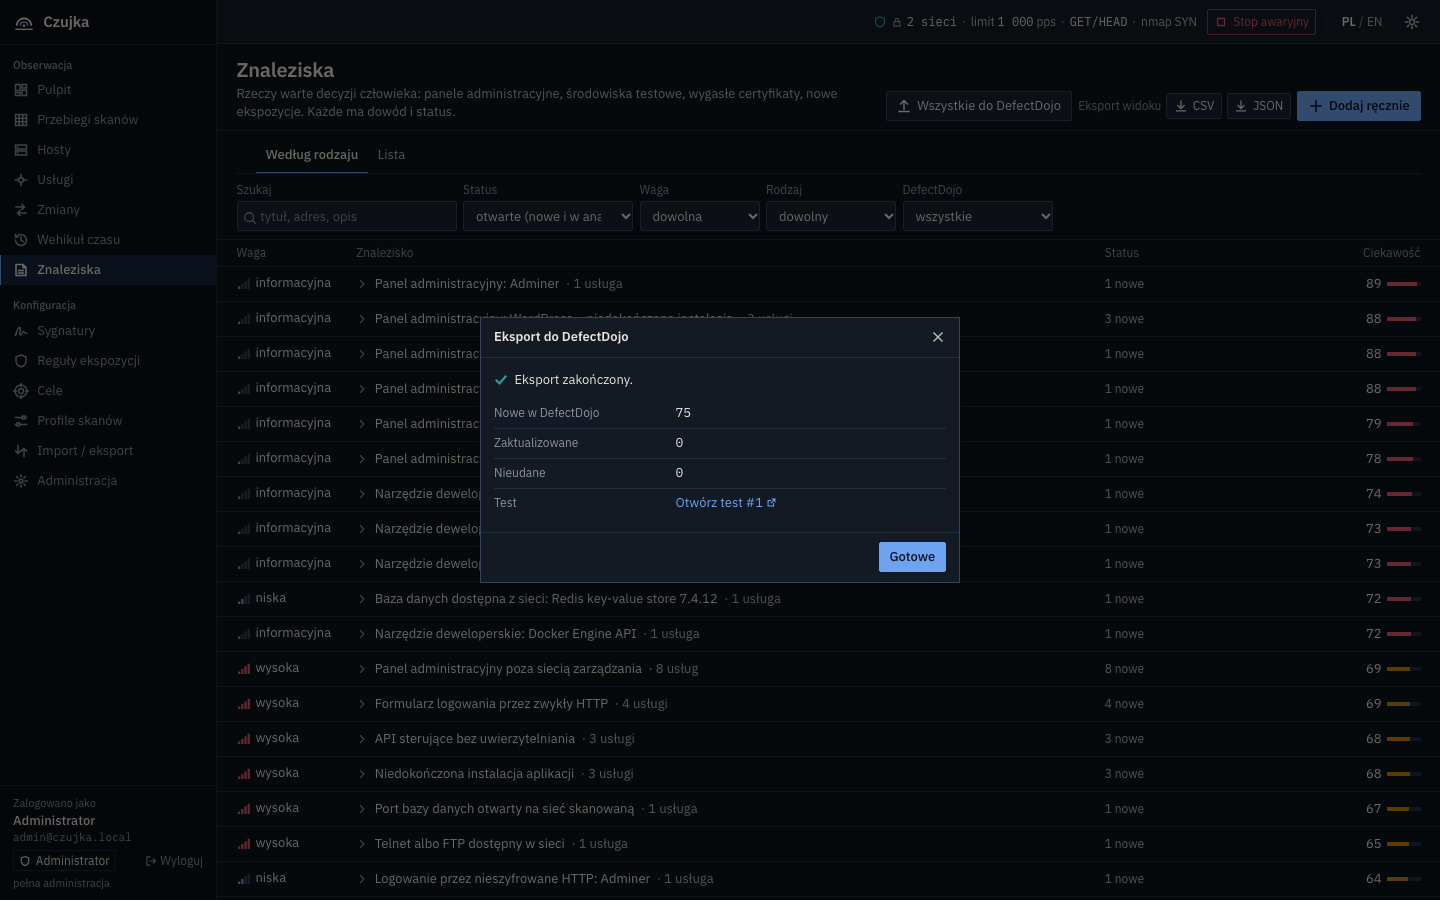
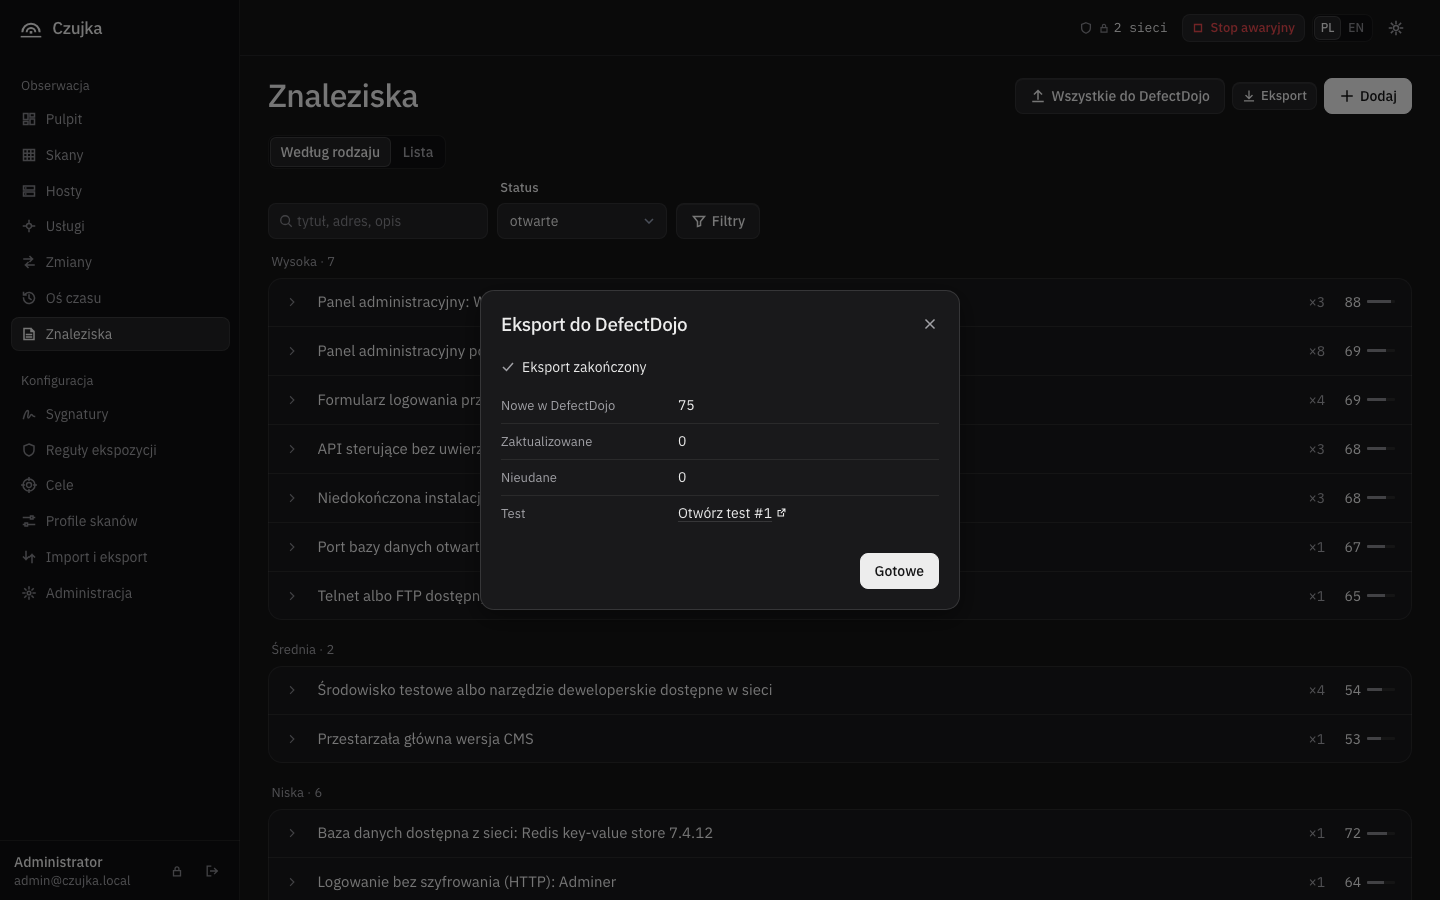
docs(demo): live cue card and case 4 and 6 proofs on the frozen UI
Navigation labels (Skany, Import i eksport), the export result without a period, the retro-hunt sentence without the packet count, the sign-out icon. Cases 4 and 6 were proven again on the merged build; the time machine scene points at the scrubber.

diff --git a/docs/demo/LIVE.md b/docs/demo/LIVE.md
@@ -17,7 +17,7 @@ Login: `admin@czujka.local`. Czasy zmierzono na MacBooku pod obciążeniem. Dowo
 
 - Przygotuj: `live.sh 1`, gotowe po ok. 2 min 10 s.
 - Na żywo: `live.sh 1 change`.
-- Klik: Przebiegi skanów → Uruchom skan → „Ten komputer: Domyślny…” → Uruchom → po ok. 100 s Zmiany.
+- Klik: Skany → Uruchom skan → „Ten komputer: Domyślny…” → Uruchom → po ok. 100 s Zmiany.
 - UI: „Usługa 172.18.0.1:8787 zniknęła (nginx 1.31.9)”.
 - Dalej: `live.sh 1 up`, ten sam skan (ok. 110 s). UI: „Usługa 172.18.0.1:8787 wróciła po 1 min (nie było jej w 1 skanie)”.
 - Powiedz: „Czujka porównuje każdy skan z poprzednim i sama mówi, co zniknęło, a co wróciło.”
@@ -27,7 +27,7 @@ Login: `admin@czujka.local`. Czasy zmierzono na MacBooku pod obciążeniem. Dowo
 
 - Przygotuj: `live.sh 2`, gotowe po 40 s.
 - Na żywo: `live.sh 2 stop`.
-- Klik: Przebiegi skanów → Uruchom skan → „Serwer w pracowni: port 80” → Uruchom → po 7 s Zmiany.
+- Klik: Skany → Uruchom skan → „Serwer w pracowni: port 80” → Uruchom → po 7 s Zmiany.
 - UI od razu: „Host 172.31.250.10 nie odpowiada (niepotwierdzone)”.
 - UI ok. 1,5 min później, bez kliknięcia: „Host 172.31.250.10 zgłoszony jako nieaktywny”, „Usługa 172.31.250.10:80 zniknęła (nginx 1.31.9): host zgłoszony jako nieaktywny”.
 - Powiedz: „Jeden brak odpowiedzi to jeszcze nie awaria. Czujka sama sprawdza ponownie i dopiero wtedy potwierdza.”
@@ -37,43 +37,43 @@ Login: `admin@czujka.local`. Czasy zmierzono na MacBooku pod obciążeniem. Dowo
 
 - Przygotuj: `live.sh 3`, gotowe po 75 s.
 - Na żywo: `live.sh 3 slow` (Toxiproxy +500 ms).
-- Klik: Przebiegi skanów → Uruchom skan → „WordPress za proxy” → Uruchom → po ok. 20 s Zmiany.
+- Klik: Skany → Uruchom skan → „WordPress za proxy” → Uruchom → po ok. 20 s Zmiany.
 - UI: „Usługa 172.18.0.1:8085 odpowiada wolniej: 585 ms (zwykle 39 ms)”.
 - Dalej, jeśli jest czas: `live.sh 3 fast`, ten sam skan. UI: „znów odpowiada w zwykłym czasie: 44 ms (zwykle 39 ms)”.
 - Powiedz: „Czujka zna zwykły czas odpowiedzi każdej usługi, więc widzi spowolnienie, zanim usługa padnie.”
 
 ## 4. Nowa ekspozycja, reguły i DefectDojo
 
-- Przygotuj: `live.sh 4`, gotowe po 60 s.
+- Przygotuj: `live.sh 4`, gotowe po ok. 75 s.
 - Na żywo: `live.sh 4 expose` (stos podatny obok czystego).
-- Klik: Przebiegi skanów → Uruchom skan → „Porty szablonu” → Uruchom → po ok. 90 s Zmiany → Reguły ekspozycji.
+- Klik: Skany → Uruchom skan → „Porty szablonu” → Uruchom → po ok. 90 s Zmiany → Reguły ekspozycji.
 - UI: 19 × „Nowa usługa…”, np. „Nowa usługa 172.18.0.1:8088 (Apache httpd 2.4.10)”. Reguły: „Niedokończona instalacja aplikacji” 3, „API sterujące bez uwierzytelniania” 3.
 - DefectDojo: w drugim terminalu, w trakcie skanu: `live.sh 4 dojo` (ok. 65 s).
-- Klik: Znaleziska → Wszystkie do DefectDojo → Eksportuj.
-- UI: „Eksport zakończony.” Nowe w DefectDojo: 75, nieudane: 0.
+- Klik: Znaleziska → Wszystkie do DefectDojo → Eksportuj 75.
+- UI: „Eksport zakończony”. Nowe w DefectDojo: 75, nieudane: 0.
 - Powiedz: „Nowa usługa od razu przechodzi przez reguły. To, czego nie powinno być w sieci, staje się znaleziskiem i jednym kliknięciem trafia do DefectDojo.”
 - Uwaga: link „Otwórz test” działa tylko w maszynie. Port 2375 (Docker Engine API) to demon samej maszyny jury.
 
 ## 5. Role
 
 - Przygotuj: `live.sh 5`, gotowe po 45 s. Terminal pokazuje raz 4 konta z hasłami: viewer@, analyst@, editor@czujka.local, admin2@czujka.local.
-- Klik: Wyloguj → viewer@ → Przebiegi skanów. UI: „Tylko odczyt. Twoja rola nie pozwala na zmiany na tej stronie.”
-- Klik: analyst@ → jest „Uruchom skan” i „Stop awaryjny” → Import / eksport. UI: „Twoja rola nie może importować wyników”.
-- Klik: editor@ → Import / eksport działa, sygnatury też → admin2@ → Administracja → Użytkownicy.
+- Klik: ikona Wyloguj (lewy dolny róg) → viewer@ → Skany. UI: „Tylko odczyt. Twoja rola nie pozwala na zmiany na tej stronie.”
+- Klik: analyst@ → jest „Uruchom skan” i „Stop awaryjny” → Import i eksport. UI: „Twoja rola nie może importować wyników.”
+- Klik: editor@ → Import i eksport działa, sygnatury też → admin2@ → Administracja → Użytkownicy.
 - Powiedz: „Cztery role z zadania. Przycisku, którego rola nie może użyć, nie widać albo jest wyłączony.”
 
 ## 6. Sygnatura z prawdziwej usługi
 
-- Przygotuj: `live.sh 6`, gotowe po ok. 2 min 10 s.
+- Przygotuj: `live.sh 6`, gotowe po ok. 1,5–2 min.
 - Klik: Usługi → 172.18.0.1:8888 (httpbin) → Zaproponuj sygnaturę → Otwórz w edytorze → Uruchom test → Zapisz sygnaturę.
-- UI: „Sygnatura „gunicorn” pasuje do przykładu i do żadnej innej z 6 zapisanych usług.” → „Sygnatura jest poprawna i bezpieczna” → „Dopasowano 1 zapisaną usługę, wysłano 0 pakietów.”
+- UI: „Sygnatura „gunicorn” pasuje do przykładu i do żadnej innej z 6 zapisanych usług.” → „Sygnatura jest poprawna i bezpieczna” → „Dopasowano 1 zapisaną usługę.”
 - Przed zapisem możesz zmienić `name:` w edytorze, np. na „httpbin w pracowni”.
 - Powiedz: „Sygnaturę robimy z prawdziwej usługi w minutę. Test na zapisanych wynikach nie wysyła ani jednego pakietu.”
 
 ## 7. Import i edycja, która przeżywa skan
 
 - Przygotuj: `live.sh 7`, gotowe po 90 s. Pliki: `docs/demo/live/samples/`.
-- Klik: Import / eksport → Importuj wyniki: `wyniki-nmap.xml` (4 hosty, 12 usług) → Importuj znaleziska: `znaleziska-dojo-generic.json` (2 nowe).
-- Klik: Znaleziska → „Test ręczny: brak nagłówka Content-Security-Policy…” → waga niska, notatka, przypisanie → Przebiegi skanów → Uruchom skan „Quickstart”.
+- Klik: Import i eksport → zakładka Import → Importuj wyniki: `wyniki-nmap.xml` (4 hosty, 12 usług) → Importuj znaleziska: `znaleziska-dojo-generic.json` (2 nowe).
+- Klik: Znaleziska → „Test ręczny: brak nagłówka Content-Security-Policy…” → waga niska, notatka, przypisanie → Skany → Uruchom skan „Quickstart”.
 - UI po skanie: znalezisko nadal ma wagę niską i notatkę „Obniżone: serwer tylko w sieci laboratorium.”
 - Powiedz: „Wyniki z nmapa i znaleziska z pentestu trafiają do tej samej bazy, a decyzja analityka przeżywa kolejny skan.”
